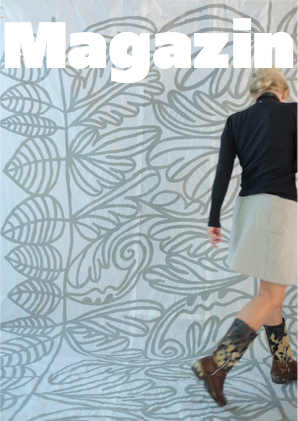
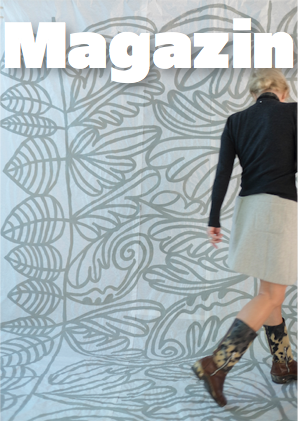
Add shadow.

Changed region(s): [[0.0302, 0.0618, 1.0, 0.2162], [0.0906, 0.0618, 0.1208, 0.0926]]

diff --git a/fashionMagCovers.py b/fashionMagCovers.py
@@ -17,6 +17,9 @@
 from pagebot.contexts import defaultContext as context
 from pagebot.fonttoolbox.objects.font import getFontByName
 from pagebot.style import A4, CENTER, DISPLAY_BLOCK, RIGHT, LEFT
+from pagebot import Gradient, Shadow
+
+shadow = Shadow(offset=(6, -6), blur=10, color=(0.2, 0.2, 0.2, 0.5))
 
 W, H = A4
 
@@ -31,7 +34,7 @@ def buildCoverPages(w, h):
     footNoteRefStyle = dict(font='Upgrade-Book', fontSize=10, openTypeFeatures=dict(smcp=True))
     pageChapterStyle = dict(font='Upgrade-BookItalic', fontSize=8, rLeading=1.3, tracking=0.2, xTextAlign=RIGHT)
     pageTitleStyle = dict(font='Upgrade-BookItalic', fontSize=8, rLeading=1.3, tracking=0.2, xTextAlign=LEFT)
-
+	
     footNoteRef = 12
 
     magazineTitle = 'Magazin'
@@ -72,11 +75,14 @@ def buildCoverPages(w, h):
     # Draw image 
     context.image('docs/images/PepperTomSkirt_img0093.png', (0, 0), w=w, h=h)
     
+    # Title of cover, make it fit in with and add shadow
     bs = context.newString(magazineTitle, style=coverTitleStyle, w=w-2*M)    
     R = (ML, MB, w-ML-MR, h-MB-MT)
     overFill = context.textOverflow(bs, R)
+    context.setShadow(shadow)
     context.textBox(bs, R)
-
+    context.resetShadow()
+    
     """
     pn = context.newString(66, style=coverTitleStyle)
     context.text(pn, (w/2 - pn.w/2, M/2))
